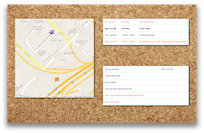
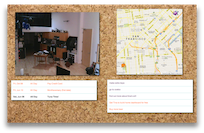
updated homedash project

diff --git a/templates/projects/homedash.html b/templates/projects/homedash.html
@@ -18,8 +18,9 @@
   <div id="page_content">
     <div class="content" id="homedash">
       <h1>Home Dashboard with Raspberry pi</h1>
-      <p>With this raspberry pi running, it pulls from google latitude, google calendar, and google tasks for my account and my boyfriend's account, every 30 minutes. The little purple tuna on the map is me, and the orange elephant is my boyfriend. After pulling down the calendar and tasks data, the pi tries to merge our events and tasks. My own event or task is color coded to purple, and my friend's to orange. The text is bolded to black if the event or task belongs to both of us.</p>
-      <p>I had fun building this little project. I already ordered a webcam from Amazon. Next thing is to have it take a picture every 30 minutes and upload the picture to Dropbox. I firmly believe this can prevent us from a breakin!</p>
+      <p>With this raspberry pi running, it pulls from google latitude, google calendar, and google tasks for my account and my boyfriend's account, every 30 minutes. The little purple tuna on the map is me, and the orange elephant is my boyfriend. After pulling down the calendar and tasks data, the pi tries to merge our events and tasks. My own event or task is color coded to purple, and my boyfriend's to orange. The text is bolded to black if the event or task belongs to both of us.</p>
+      <p>I also bought a $10 webcam to connect to the raspberry pi. A cron job is set up to check my boyfriend's and my google latitude location. Only take a picture of our apartment if neither of us is at home (for privacy reasons), and upload every picture to Dropbox as soon as they are taken. I have another cron job running every day to prune any picture that's more than one day old. </p>
+      <p>I had fun building this little project. The next step is to do some image processing to detect movements using the webcam. I want to set it up so it texts me if it detects any movement but neither of us is at home</p>
       <div class="desc-img">
 	<img src="../../static/img/homedash.png" />
       </div>

diff --git a/templates/projects.html b/templates/projects.html
@@ -24,7 +24,7 @@
 	<div class="project-desc">
           <a href="./projects/homedash.html">Home Dashboard with Raspberry pi</a>
           <div class="project-detail">
-	    I got a raspberry pi at pycon, so I thought I'd put it in use this weekend. Since I'm too lazy to go buy a real corkboard and we happen to have several old monitors sitting around, I thought it'd be fun to make a home dashboard that pulls all important information like location and todos from google and display them on a monitor, just like a real corkboard. Code is on <a href="https://github.com/tinawen/dashboard">github</a>.
+	    I got a raspberry pi at pycon, so I thought I'd put it in use this weekend. Since I'm too lazy to go buy a real corkboard and we happen to have several old monitors sitting around, I thought it'd be fun to make a home dashboard that pulls all important information like location and todos from google and display them on a monitor, just like a real corkboard. I also hooked up a webcam, which only takes a picture of our place every minute when neither my boyfriend or I am at home. The pictures are uploaded to Dropbox once they are taken. I also have a cron job running to prune any pictures that's more than one day old. Code is on <a href="https://github.com/tinawen/dashboard">github</a>.
           </div>
 	</div>
       </div>
